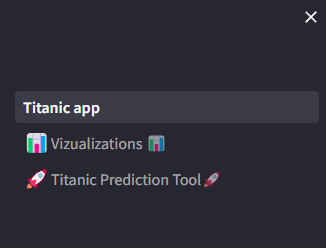
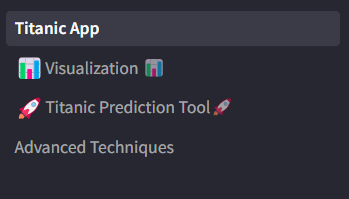
Spelling updates

diff --git a/Titanic/Titanic_App/pages/3_Advanced_Techniques.py b/Titanic/Titanic_App/pages/3_Advanced_Techniques.py
@@ -35,7 +35,7 @@ st.write("""
 
 Combines predictions from different models (e.g., linear regression, decision trees, neural networks) using another model to learn how to best weigh their outputs.
          
-To build the stacking model, I used SVC, NB, and a Random Forest Classifier. I then designated teh final estimator as Logistic Regression (because this was my highest rated raw model).
+To build the stacking model, I used SVC, NB, and a Random Forest Classifier. I then designated the final estimator as Logistic Regression (because this was my highest rated raw model).
 
 The accuracy for the stacking model compliation is: *84.00%*.
 """)

diff --git a/Titanic/Titanic_App/README.md b/Titanic/Titanic_App/README.md
@@ -118,9 +118,26 @@ Here, we attempted to find trends using the DBSCAN unsupervised learning algorit
 
 ---
 
+![Advanced_1](Pictures/Advanced_1.png)
+
+---
+
+![Advanced_2](Pictures/Advanced_2.png)
+
+---
+
 The prediction tool has a few sliders that will allow you to input your own data for what class passenger you would be, your sex, your age, and approx. how much you would have spent on the fare to board the Titanic. This data will be entered in the model to give a prediction on whether or not you would have survived the Titanic. 
 
 ![Tool_One](Pictures/Tool_1.png)
+
+---
+
+![Dead](Pictures/Dead.png)
+
+---
+
+![Alive](Pictures/Alive.png)
+
 
 
 
